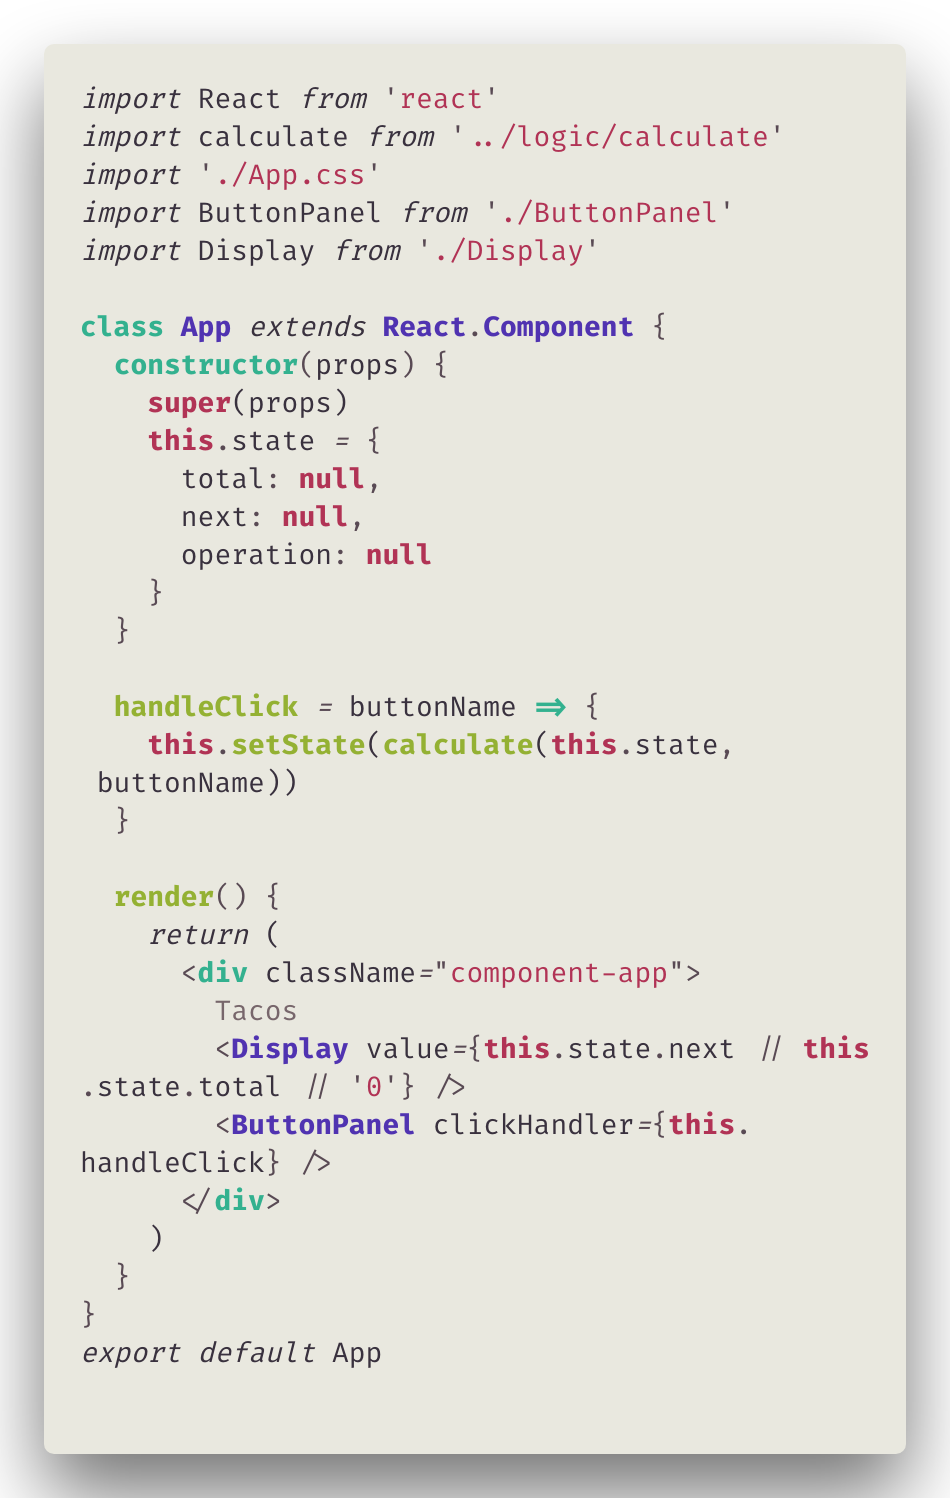
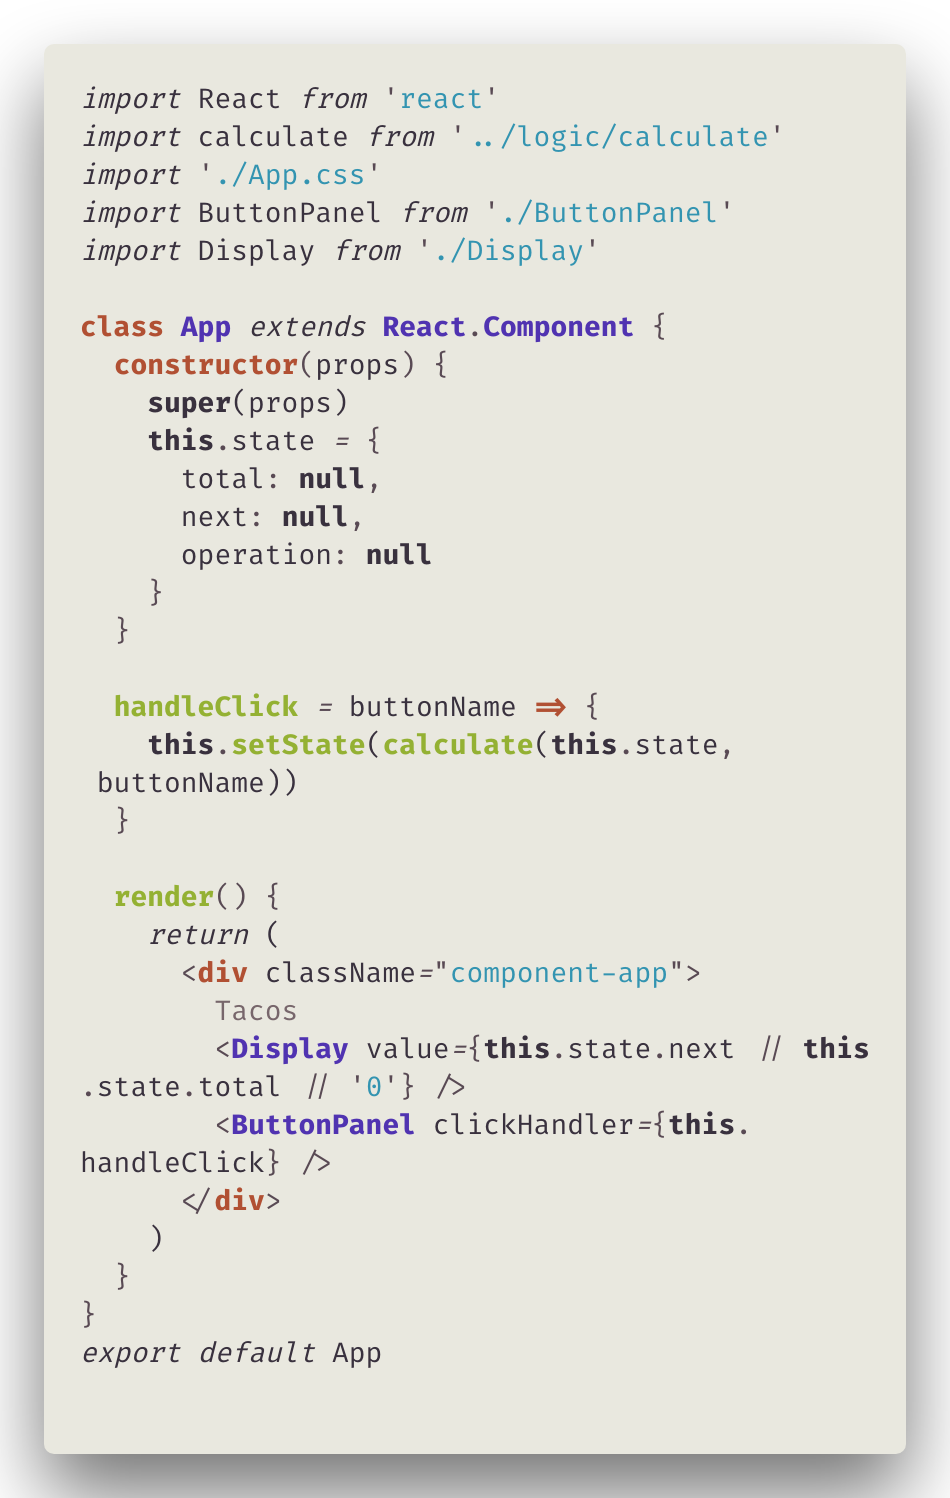
Updates screenshots (0.3.1)

diff --git a/CHANGELOG.md b/CHANGELOG.md
@@ -2,8 +2,11 @@
 
 This is a living record of all the notable changes "chronotype-vscode-theme" incurs during its development and upkeep. If you're unsure about the state of the project, this is the first place to look.
 
+## [Unreleased]
+
 ## [0.3.1]
 - More syntax highlighting tweaks
+- Updated screenshots
 
 ## [0.3.0]
 - Updates the Change Log
